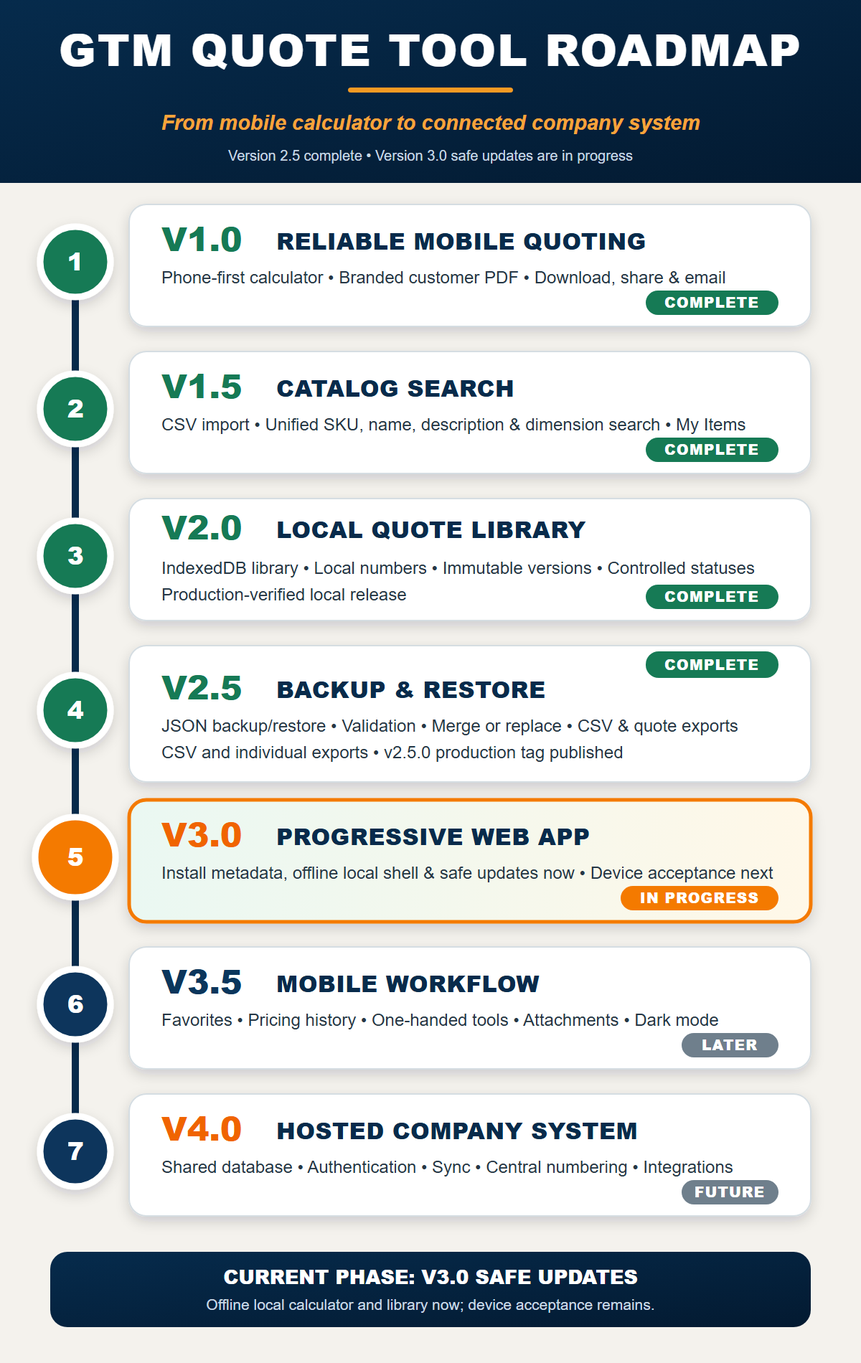
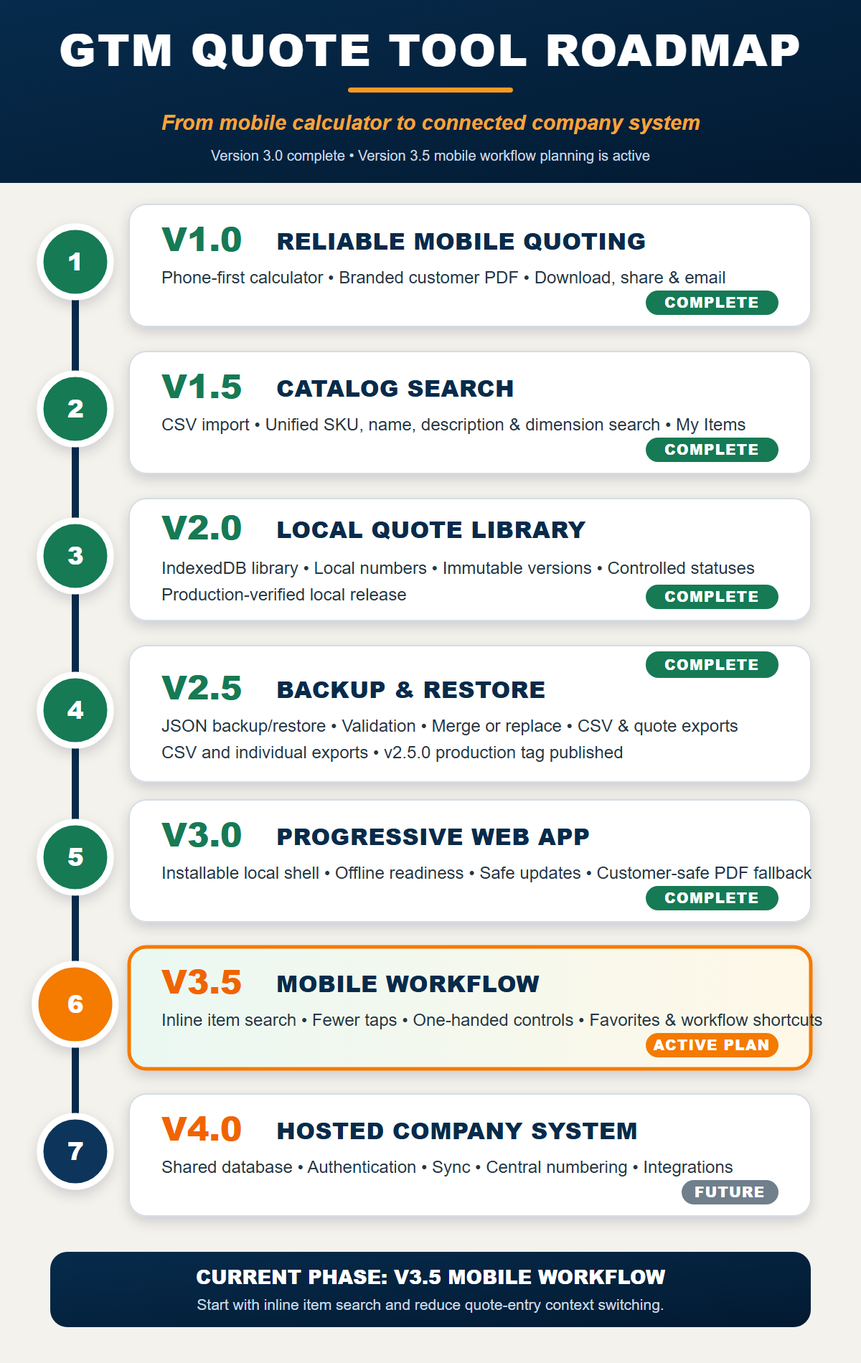
Close Version 3 release

Changed region(s): [[0.0308, 0.5589, 0.9558, 0.8074], [0.2158, 0.9316, 0.7708, 0.9626], [0.2467, 0.0932, 0.74, 0.1242]]

diff --git a/tests/release-metadata.test.js b/tests/release-metadata.test.js
@@ -6,27 +6,28 @@ function read(path) {
   return readFileSync(new URL(`../${path}`, import.meta.url), 'utf8');
 }
 
-const buildLabel = `v3.0.0 ${String.fromCharCode(0x00b7)} hidden-controls.6`;
+const buildLabel = `v3.0.0 ${String.fromCharCode(0x00b7)} stable`;
 
-describe('Version 3 development metadata', () => {
-  it('keeps the Version 3 hidden-controls marker and package version aligned', () => {
+describe('Version 3 stable-release metadata', () => {
+  it('keeps the Version 3 stable marker and package version aligned', () => {
     const packageMetadata = JSON.parse(read('package.json'));
     expect(APP_BUILD_LABEL).toBe(buildLabel);
-    expect(packageMetadata.version).toBe('3.0.0-alpha.6');
+    expect(packageMetadata.version).toBe('3.0.0');
     expect(APP_RELEASE_VERSION).toBe(packageMetadata.version);
   });
 
-  it('keeps the completed Version 2.5 and active Version 3 status consistent', () => {
+  it('keeps completed Version 3 and active Version 3.5 status consistent', () => {
     expect(read('README.md')).toContain('Version 2 is complete');
     expect(read('README.md')).toContain('Version 2.5 backup and restore is complete');
     expect(read('docs/CURRENT_STATE.md')).toContain(buildLabel);
     expect(read('docs/PRODUCT_ROADMAP.md')).toContain('Version 2.0 is complete');
     expect(read('docs/PRODUCT_ROADMAP.md')).toContain('Status (2026-08-06): Complete.');
-    expect(read('docs/PRODUCT_ROADMAP.md')).toContain('Status (2026-09-08): In progress.');
+    expect(read('docs/PRODUCT_ROADMAP.md')).toContain('Status (2026-09-08): Complete after owner acceptance; stable tag pending post-merge deployment verification.');
     expect(read('docs/V2_IMPLEMENTATION_PLAN.md')).toContain('Status: complete.');
     expect(read('docs/V25_IMPLEMENTATION_PLAN.md')).toContain('Status: complete after owner acceptance');
     expect(read('build-docs/OPEN_ITEMS.md')).toContain('Version 2.5 backup and restore');
-    expect(read('docs/assets/gtm-quote-tool-roadmap.svg')).toContain('CURRENT PHASE: V3.0 SAFE UPDATES');
-    expect(read('docs/assets/gtm-quote-tool-roadmap.svg')).toContain('IN PROGRESS');
+    expect(read('docs/PRODUCT_ROADMAP.md')).toContain('Status (2026-09-08): Active planning.');
+    expect(read('docs/assets/gtm-quote-tool-roadmap.svg')).toContain('CURRENT PHASE: V3.5 MOBILE WORKFLOW');
+    expect(read('docs/assets/gtm-quote-tool-roadmap.svg')).toContain('ACTIVE PLAN');
   });
 });

diff --git a/tests/compat/application.spec.js b/tests/compat/application.spec.js
@@ -1,7 +1,7 @@
 import { expect, test } from '@playwright/test';
 import AxeBuilder from '@axe-core/playwright';
 
-const appBuildLabel = `v3.0.0 ${String.fromCharCode(0x00b7)} hidden-controls.6`;
+const appBuildLabel = `v3.0.0 ${String.fromCharCode(0x00b7)} stable`;
 
 test('loads, exposes accessible controls, and preserves approved defaults', async ({ page }) => {
   await page.goto('./');

diff --git a/js/app-meta.js b/js/app-meta.js
@@ -1,4 +1,4 @@
 export const APP_VERSION = 'v3.0.0';
-export const APP_SUBVERSION = 'hidden-controls.6';
-export const APP_RELEASE_VERSION = '3.0.0-alpha.6';
+export const APP_SUBVERSION = 'stable';
+export const APP_RELEASE_VERSION = '3.0.0';
 export const APP_BUILD_LABEL = `${APP_VERSION} \u00b7 ${APP_SUBVERSION}`;

diff --git a/docs/V3_RELEASE_CHECKLIST.md b/docs/V3_RELEASE_CHECKLIST.md
@@ -1,11 +1,11 @@
 # Version 3.0 Release Closeout Checklist
 
-Status: in progress. Version 3 remains a local-only PWA release candidate. Do not create or move the annotated `v3.0.0` tag until every unchecked physical acceptance item is recorded and the owner approves closeout.
+Status: owner acceptance complete. Version 3 remains a local-only PWA release. Create the annotated `v3.0.0` tag only after this closeout documentation is merged, the resulting Pages deployment is verified, and the tag targets that exact production commit.
 
 ## Release candidate identity
 
-- Candidate implementation PR: pending `feature/v3-hidden-control-ci-fix`, following merged PR #38 (`745f66a`).
-- Candidate marker/package: `v3.0.0 · hidden-controls.6` / `3.0.0-alpha.6`.
+- Closeout baseline: PR #39 merged to `main` as `0f15230` on 2026-09-08.
+- Stable marker/package: `v3.0.0 · stable` / `3.0.0`.
 - GitHub Pages base path: `/gtm-calc/`.
 - Production URL: <https://sactowilly.github.io/gtm-calc/>.
 - PWA boundary: the worker caches only public application files. It never reads, writes, migrates, or caches `gtm_quote_calculator_v1`, IndexedDB, quote/customer/catalog records, PDFs, backups, mailto URLs, or generated output.
@@ -17,57 +17,41 @@ Status: in progress. Version 3 remains a local-only PWA release candidate. Do no
 - [x] GitHub Pages deployment for that merge passed: run `31765659119`.
 - [x] Live source smoke confirmed the `safe-update.4` marker module, visible update-notice markup, cache-v3 worker source, and explicit `SKIP_WAITING` handler.
 - [x] PR #38 merged to `main` as `745f66a`; it supplies the direct **Open PDF** fallback but its PR check exposed a visual-hidden regression in the quote-library pagination control.
-- [ ] Confirm the `hidden-controls.6` CI-fix PR's CI, GitHub Pages source smoke, and Android **Open PDF** retest before recording this as the current release-candidate evidence.
+- [x] PR #39 GitHub Actions `test-and-build` passed: run `34266091373`.
+- [x] PR #39 merged to `main` as `0f15230`; GitHub Pages deployment passed: run `34268352795`.
+- [x] Live source smoke returned the deployed `hidden-controls.6` metadata module over HTTPS on 2026-09-08.
 - [x] Local hidden-control evidence: syntax/PWA syntax checks, 174 unit tests, 10 quote-library scale checks across Chromium/Firefox/WebKit/Android Chrome/iPhone Safari emulation, the complete 225-test compatibility matrix, direct-source smoke (2/2), production smoke (2/2), and the Vite build all passed on 2026-09-08.
 - [x] Earlier local implementation evidence: all 16 customer-PDF visual checks passed; the current branch preserves that output code.
-- [ ] GitHub Actions must reproduce a clean full compatibility-matrix run for `hidden-controls.6`; the passed local 225-test run is supporting evidence, not the release-pass gate.
+- [x] GitHub Actions reproduced a clean full compatibility-matrix run for `hidden-controls.6` in run `34266091373`.
 
 ## Physical acceptance required from owner
 
 Use synthetic customer data and download a complete local backup before testing. Do not use **Clear site data**; that can erase browser-local quotes, customers, catalog data, and settings.
 
-### Android Chrome
+### Recorded owner-device scope
 
-- [ ] Open an installed/previously used copy while online. If a waiting update notice appears, confirm it says to save work before reloading.
-- [ ] Enter a distinctive unsaved customer or item-form value; choose **Reload update**; decline confirmation; verify the value remains and the update stays available.
-- [ ] Save the value; choose **Reload update**; verify the app reloads once to `v3.0.0 · hidden-controls.6` and the saved quote/library/catalog data is unchanged.
-- [ ] Launch the installed app again, then turn on airplane mode and reopen it. Verify the offline message, calculator, catalog search, saved draft reopen, and local draft save work.
-- [ ] Reconnect and verify PDF preview, direct **Open PDF**, download, Share Sheet behavior when supported, and email fallback remain recoverable. Verify customer PDF/copy/email contain no cost, freight cost, GTM, internal notes, or source/vendor data.
-- [ ] Check portrait and landscape: no clipped update notice, bottom navigation, sticky actions, or keyboard-covered essential control.
-
-### iPhone Safari
-
-- [ ] Install/open using Safari's **Add to Home Screen** path and repeat the waiting-update, unsaved-edit, save-and-reload, offline reopen, catalog, draft, and PDF/download checks above.
-- [ ] Verify the update controls remain reachable with Dynamic Type/large text and VoiceOver labels announce the notice and its buttons clearly.
-- [ ] Verify the installed app does not lose saved local data when it reloads after an update.
-
-### Laptop Chromium
-
-- [ ] Test a normal tab: update notice, unsaved-confirm cancel, saved reload, direct `/gtm-calc/` reload, and offline reopen after one online launch.
-- [ ] While preparing a backup restore, attempt **Reload update** and verify activation is blocked until the restore activity finishes or is cancelled. Do not perform a destructive restore solely for this test; inspection is sufficient to verify the busy state.
-- [ ] Verify keyboard-only operation, visible focus, 200% zoom, browser console free of application errors, and no horizontal overflow.
-- [ ] Verify existing `gtm_quote_calculator_v1`, IndexedDB draft/customer/version data, quote numbers, immutable versions, and customer-safe output remain unchanged before and after cache migration.
+- [x] Android Chrome — Samsung Galaxy S24 Ultra: owner confirmed the deployed app loads and the direct **Open PDF** fallback, download, email, and quote output work. The Android embedded viewer's own Open control remains unreliable, which is the reason the app-owned fallback exists; it is not treated as an application failure.
+- [x] Laptop Chromium — Dell desktop/Chrome: owner previously confirmed normal quote operation, PDF/download/email behavior, and Chromium desktop usability.
+- [x] iPhone Safari — explicitly deferred by owner. This is a release-scope decision, not a claim that Safari was physically tested. A future iPhone deployment, navigation, Dynamic Type, VoiceOver, update, and data-retention check remains recommended before iOS-specific changes.
 
 ## Update-test note
 
-The notice appears only when a browser already controls a page with an older worker and has downloaded a newer worker. If a device already shows `hidden-controls.6` and no notice, record the normal/offline/data-retention checks as pass and mark the update-notice test **not available on this device**. Do not ship a throwaway production change merely to force a notice. The next production update must re-run the notice path before its release.
+The notice appears only when a browser already controls a page with an older worker and has downloaded a newer worker. The automated update-coordinator coverage passed; device appearance of a notice was not forced through a throwaway production update. The next production update must re-run the notice path before its release.
 
 ## Owner acceptance record
 
 | Device/browser | Date | Result | Evidence | Owner initials |
 | --- | --- | --- | --- | --- |
-| Android Chrome |  | Pending |  |  |
-| iPhone Safari |  | Pending |  |  |
-| Laptop Chromium |  | Pending |  |  |
+| Android Chrome — Samsung Galaxy S24 Ultra | 2026-09-08 | PASS | Owner-confirmed direct **Open PDF** fallback works; download, email, and quote output work. Embedded viewer Open is known unreliable and bypassed. | Will Z. |
+| iPhone Safari | 2026-09-08 | DEFERRED | Owner explicitly does not plan to test iPhone in this release; no Safari pass is claimed. | Will Z. |
+| Laptop Chromium — Dell desktop/Chrome | 2026-08-14 | PASS | Owner-confirmed normal Chrome desktop quote/PDF/download/email behavior. | Will Z. |
 
 ## Release actions after acceptance
 
-1. Record the exact device/browser/date/results above and resolve the compatibility-matrix evidence.
-2. Update `README.md`, `docs/CURRENT_STATE.md`, `docs/PRODUCT_ROADMAP.md`, `docs/V3_IMPLEMENTATION_PLAN.md`, `docs/TEST_PLAN.md`, `BUILD-LOG.md`, `build-docs/DECISIONS.md`, and `build-docs/OPEN_ITEMS.md` to mark Version 3 complete and Version 3.5 active.
-3. Update and visually inspect the roadmap SVG/PNG.
-4. Merge the acceptance documentation change to `main`.
-5. Verify the post-merge Pages deployment and live marker.
-6. Create and push annotated tag `v3.0.0` at that verified production commit. Do not move the tag afterward.
+1. Merge the acceptance/closeout documentation change to `main`.
+2. Verify the post-merge Pages deployment and live stable marker.
+3. Create and push annotated tag `v3.0.0` at that verified production commit. Do not move the tag afterward.
+4. Begin Version 3.5 with the inline Quote-workspace item-search slice.
 
 ## Rollback
 

diff --git a/README.md b/README.md
@@ -10,7 +10,7 @@ GitHub Pages URL: https://sactowilly.github.io/gtm-calc/
 
 ## Current Release Track
 
-Version 1 is the accepted mobile quote foundation. Version 1.5 catalog search is complete. Version 2 is complete: its IndexedDB-backed quote/customer library and lifecycle controls passed automated and owner device acceptance while retaining the original browser save as a fallback. Version 2.5 backup and restore is complete and tagged `v2.5.0` at verified production commit `7ab4d2e`. Version 3.0 is in progress with marker `v3.0.0 · hidden-controls.6`: after one successful online launch, the public application shell can reopen offline while the calculator, catalog, and saved browser data continue to use their existing local stores. A waiting update is applied only after the user chooses Reload update; unsaved quote edits require confirmation and an active backup restore blocks reload. The PDF dialog also provides a direct Open PDF link when an embedded phone viewer cannot open its own control.
+Version 1 is the accepted mobile quote foundation. Version 1.5 catalog search is complete. Version 2 is complete: its IndexedDB-backed quote/customer library and lifecycle controls passed automated and owner device acceptance while retaining the original browser save as a fallback. Version 2.5 backup and restore is complete and tagged `v2.5.0` at verified production commit `7ab4d2e`. Version 3.0 is accepted for stable release with marker `v3.0.0 · stable`: after one successful online launch, the public application shell can reopen offline while the calculator, catalog, and saved browser data continue to use their existing local stores. A waiting update is applied only after the user chooses Reload update; unsaved quote edits require confirmation and an active backup restore blocks reload. The PDF dialog provides a direct Open PDF link when an embedded phone viewer cannot open its own control. Version 3.5 mobile-workflow planning is now active, beginning with inline item search in the Quote workspace.
 
 The release smoke checks remain:
 
@@ -62,7 +62,8 @@ All costs, prices, freight, totals, and GTM dollar values are USD.
 - **Version 1.5 - Catalog Search (complete):** CSV import/reporting, normalized unified search, local catalog storage/rollback, manual items, and recent items are merged and owner-tested.
 - **Version 2.0 - Local Quote Library (complete):** IndexedDB-backed searchable drafts, customer recall, phone-scale results, highlighted duplicates, local quote numbers, immutable version history, revisions, controlled statuses, and separate Quote/Library/Clients/Catalog workspaces are accepted. Version 2.5 adds the fifth Export destination.
 - **Version 2.5 - Backup and Restore (complete):** the complete JSON/checksum foundation, validated local backup download, restore inspection, explicit Merge/Replace transaction, RFC 4180/formula-safe CSV reports, and individual quote JSON/customer-safe PDF downloads passed physical acceptance, owner approval, and post-merge Pages verification. Annotated tag `v2.5.0` identifies verified production commit `7ab4d2e`.
-- **Version 3.0 - Progressive Web App (in progress):** install metadata, the public shell cache, offline calculator/library readiness, and deliberate safe-update activation are implemented; physical production-device acceptance remains the final release gate. See [docs/V3_IMPLEMENTATION_PLAN.md](docs/V3_IMPLEMENTATION_PLAN.md) and [installation guidance](docs/INSTALLATION.md).
+- **Version 3.0 - Progressive Web App (accepted stable release):** install metadata, public-shell caching, offline calculator/library readiness, deliberate safe-update activation, and the Android PDF-open fallback are complete. See [docs/V3_RELEASE_CHECKLIST.md](docs/V3_RELEASE_CHECKLIST.md) and [installation guidance](docs/INSTALLATION.md).
+- **Version 3.5 - Mobile workflow (active planning):** reduce quote-entry context switching, starting with inline item search in the Quote workspace. See [docs/V35_IMPLEMENTATION_PLAN.md](docs/V35_IMPLEMENTATION_PLAN.md).
 - **Version 3.5 - Mobile Workflow Improvements:** favorites, recent customers, frequent item combinations, pricing history, attachments, one-handed controls, and dark mode.
 - **Version 4.0 - Hosted Company System:** future centralized access with shared storage, authentication, synchronization, central quote numbering, integrations, reporting, and permissions.
 
@@ -100,6 +101,7 @@ npm run test:production
 - `tests/` - calculation, privacy, fixture, and browser layout regression tests
 - `docs/V3_IMPLEMENTATION_PLAN.md` - staged PWA implementation, cache, offline, update, and release gates
 - `docs/V3_RELEASE_CHECKLIST.md` - exact Version 3 device-acceptance, deployment, and stable-tag gate
+- `docs/V35_IMPLEMENTATION_PLAN.md` - staged mobile-workflow plan, beginning with inline item search
 - `manifest.webmanifest`, `sw.js`, `js/pwa/`, `assets/pwa/`, and `docs/INSTALLATION.md` - install metadata, scoped public-shell cache, offline status, branded icons, and phone installation guidance
 - `assets/vision-industrial-packaging-logo.png` - complete logo artwork extracted from the approved quotation reference
 - `vite.config.js` - production build configuration for the GitHub Pages base path

diff --git a/docs/CURRENT_STATE.md b/docs/CURRENT_STATE.md
@@ -26,9 +26,9 @@ The detailed audit below remains as historical evidence for the original baselin
 - PR #17 merged the state-preserving Quote, Library, Customers, and Catalog workspaces. PR #18 merged navigation design hardening and passed GitHub CI plus the subsequent Pages deployment.
 - PR #19 head `22cf299` merged to `main` as `3e41007` after CI run `30130612587` passed. Pages run `30132341911` deployed the release candidate successfully.
 - Version 2 acceptance passed on 2026-07-27: live production phone/laptop/privacy smoke passed; Android Chrome passed on a Samsung Galaxy S24 Ultra; laptop Chromium passed on a Dell desktop in Chrome with the owner's approved substitution for Edge; and rollback/re-entry against accepted Version 1.5 commit `3f1f1a0` preserved the legacy raw value, IndexedDB counts, IDs, finalized hashes, counters, and recovery records before allocating `2026-002`.
-- Version 2 is complete and tagged `v2.0.0` at verified production commit `b61890c`. Version 2.5 is complete and tagged `v2.5.0` at verified production commit `7ab4d2e`. Version 3.0 is in progress with development marker `v3.0.0 · hidden-controls.6` and package version `3.0.0-alpha.6`.
+- Version 2 is complete and tagged `v2.0.0` at verified production commit `b61890c`. Version 2.5 is complete and tagged `v2.5.0` at verified production commit `7ab4d2e`. Version 3.0 is accepted for stable release with marker/package `v3.0.0 · stable` / `3.0.0`; Version 3.5 mobile-workflow planning is active.
 - The Version 2.5 foundation adds a readonly, single-transaction snapshot of all eight `gtm_quote_manager` stores plus scoped capture of the active quote, active/prior catalogs, manual items, catalog usage, and recovery localStorage records. It adds deterministic SHA-256 envelope validation, reference checks, and immutable-version hash verification. PR #24 merged the Export workspace's exact-byte-validated local JSON download, PR #25 merged the pre-read 25 MiB inspection and sanitized no-write conflict preview, and PR #26 merged the revalidated owner-confirmed Merge/Replace transaction with a pre-write safety backup, rollback path, and post-restore validation. The current PR adds RFC 4180/formula-safe quote, customer, and manual-item CSV reports plus individual quote JSON and existing customer-safe PDF downloads from saved quote cards. No raw customer, pricing, or record-ID data is exposed in the export status UI.
-- Physical Version 2.5 backup-download/restore evidence, owner acceptance, post-merge Pages verification, and annotated tag publication are complete. Version 3.0 now adds `manifest.webmanifest`, branded square/maskable icons, installation guidance, a `/gtm-calc/`-scoped worker, a versioned cache of public application-shell files, explicit online/offline status, a non-blocking safe-update notice, and a direct customer-PDF Blob link for browsers whose embedded viewer cannot open a PDF. After one successful online launch, the calculator and existing browser-local quote/library/catalog data reopen offline. A user must explicitly choose Reload update; unsaved quote edits require confirmation and active restore work blocks update activation. The worker never caches or changes PDFs, backups, mailto links, IndexedDB, localStorage, customer records, or quote pricing. Physical device acceptance remains later work; deletion/archive, backend, authentication, synchronization, and hosted access remain deferred.
+- Physical Version 2.5 backup-download/restore evidence, owner acceptance, post-merge Pages verification, and annotated tag publication are complete. Version 3.0 adds `manifest.webmanifest`, branded square/maskable icons, installation guidance, a `/gtm-calc/`-scoped worker, a versioned cache of public application-shell files, explicit online/offline status, a non-blocking safe-update notice, and a direct customer-PDF Blob link for browsers whose embedded viewer cannot open a PDF. After one successful online launch, the calculator and existing browser-local quote/library/catalog data reopen offline. A user must explicitly choose Reload update; unsaved quote edits require confirmation and active restore work blocks update activation. The worker never caches or changes PDFs, backups, mailto links, IndexedDB, localStorage, customer records, or quote pricing. Owner Android Chrome and laptop Chromium acceptance is recorded; iPhone Safari physical testing is explicitly deferred by the owner. Version 3.5 now focuses on reducing quote-entry context switching; backend, authentication, synchronization, and hosted access remain deferred.
 
 The current verification counts are recorded in `BUILD-LOG.md` after each verified branch. The live GitHub Pages site changes only after a feature branch is reviewed and merged to `main`.
 

diff --git a/docs/PRODUCT_ROADMAP.md b/docs/PRODUCT_ROADMAP.md
@@ -173,7 +173,7 @@ Give users a complete, inspectable escape hatch before PWA/offline expectations 
 
 ## Version 3.0 — Progressive Web App
 
-**Status (2026-09-08): In progress.** The V2.5 backup/restore and export boundary is accepted, verified, and tagged `v2.5.0`. Version 3.0 now has a `/gtm-calc/`-scoped manifest, branded install icons, browser metadata, installation guidance, an explicit connectivity indicator, a versioned public application-shell cache, safe update activation, and an explicit direct-PDF opening path. The `pdf-open.5` merge exposed a CI-only hidden-button regression, now corrected by marker `v3.0.0 · hidden-controls.6`: all application buttons that use `hidden` are reliably removed from visual layout, including the quote-library pagination control. After one successful online launch the calculator, catalog, and existing local quote/library data reopen offline. A waiting update is never activated automatically: the user chooses Reload update, confirms if a quote has unsaved edits, and cannot reload during an active restore transaction. The worker never caches or changes customer data, PDFs, backups, mailto URLs, IndexedDB, or localStorage. Physical device acceptance remains the final Version 3 release gate. Later work follows [`docs/V3_IMPLEMENTATION_PLAN.md`](V3_IMPLEMENTATION_PLAN.md) and must not change persisted quote data without migration evidence.
+**Status (2026-09-08): Complete after owner acceptance; stable tag pending post-merge deployment verification.** The V2.5 backup/restore and export boundary is accepted, verified, and tagged `v2.5.0`. Version 3.0 delivers a `/gtm-calc/`-scoped manifest, branded install icons, browser metadata, installation guidance, an explicit connectivity indicator, a versioned public application-shell cache, deliberate safe update activation, and an explicit direct-PDF opening path. The final `hidden-controls.6` release candidate restored correct visual hiding for shared buttons after a CI-only pagination regression; its complete GitHub Actions matrix and Pages deployment passed. After one successful online launch the calculator, catalog, and existing local quote/library data reopen offline. A waiting update is never activated automatically: the user chooses Reload update, confirms if a quote has unsaved edits, and cannot reload during an active restore transaction. Owner Android Chrome and laptop Chromium acceptance passed; iPhone Safari physical testing is explicitly deferred by the owner, not claimed as passed. The worker never caches or changes customer data, PDFs, backups, mailto URLs, IndexedDB, or localStorage. The exact evidence and rollback boundary remain in [`docs/V3_RELEASE_CHECKLIST.md`](V3_RELEASE_CHECKLIST.md).
 
 ### Objective
 
@@ -205,13 +205,16 @@ Make the already-stable local application installable and reliably usable offlin
 
 ## Version 3.5 — Mobile workflow improvements
 
+**Status (2026-09-08): Active planning.** Version 3.5 begins with the concrete phone-first problem the owner reported: the Quote workspace should search and select catalog/My Items directly from the main Item field so reps do not have to leave the active quote and return. The first implementation slice must preserve editable in-progress line-item values, source/cost/privacy boundaries, local-only storage, keyboard/touch accessibility, and existing Catalog workspace behavior. The staged plan is [`docs/V35_IMPLEMENTATION_PLAN.md`](V35_IMPLEMENTATION_PLAN.md).
+
 ### Objective
 
 Optimize frequent rep workflows after real usage data identifies the highest-friction actions.
 
 ### Included
 
-- Candidate features selected only after usage validation: favorites, recent customers, frequent item combinations, customer pricing history, reorder quotes, one-handed controls, drag/swipe reorder, voice-to-text notes, specification attachments, and dark mode.
+- Inline quote-item search and selection with a safe return to the active line item.
+- Candidate follow-on features selected only after usage validation: favorites, recent customers, frequent item combinations, customer pricing history, reorder quotes, one-handed controls, drag/swipe reorder, voice-to-text notes, specification attachments, and dark mode.
 
 ### Explicitly excluded
 

diff --git a/docs/V35_IMPLEMENTATION_PLAN.md b/docs/V35_IMPLEMENTATION_PLAN.md
@@ -1,0 +1,49 @@
+# Version 3.5 Implementation Plan — Mobile Workflow
+
+Status: active planning from the accepted Version 3 PWA boundary. The first delivery focuses on inline item search in the active Quote workspace; it does not alter storage schemas, customer-facing output, or catalog import rules.
+
+## Objective
+
+Reduce phone quote-entry context switching. A rep should be able to type in the Quote workspace Item field, see relevant standard-catalog and My Item matches, choose one, and continue editing that line item without leaving the quote.
+
+## First implementation slice — Inline Item Search
+
+### Scope
+
+- Reuse the existing local catalog/My Items search and ranking logic; do not create a second search index.
+- Show a touch-friendly, keyboard-accessible result list beneath the active Item field after deliberate query input.
+- Search existing approved fields: SKU, full/partial name, description, normalized dimensions, and recent local items.
+- Distinguish standard catalog entries from My Items and retain current selection behavior when a user chooses a result.
+- Preserve dirty manual values until the user explicitly selects a result and confirms any existing overwrite guard.
+- Keep the standalone Catalog workspace, CSV import/reporting, local usage tracking, and `gtm_quote_calculator_v1` compatibility intact.
+
+### Explicit exclusions
+
+- No remote catalog, supplier lookup, inventory/availability, backend, authentication, PWA cache rewrite, saved-search history, favorites, bulk item bundles, or customer-specific pricing history.
+- No automatic replacement of an in-progress line item, silent price/cost overwrite, or customer-facing PDF/email behavior change.
+
+### Likely files
+
+- `index.html` and `css/main.css` for the Item-field result region and phone presentation.
+- `js/main.js` plus existing `js/catalog/catalog-ui.js` and `js/catalog/catalog-search.js` integration seams.
+- Focused Vitest and Playwright coverage under `tests/` and `tests/compat/`.
+- `README.md`, `docs/CURRENT_STATE.md`, `docs/PRODUCT_ROADMAP.md`, `docs/TEST_PLAN.md`, `BUILD-LOG.md`, `build-docs/DECISIONS.md`, and `build-docs/OPEN_ITEMS.md` when the implementation changes the visible release marker or milestone state.
+
+### Acceptance criteria
+
+- A phone user can type, arrow through or tap results, select an item, and continue in the Quote workspace without navigating to Catalog.
+- Exact SKU remains top-ranked; partial name, description, normalized dimension, My Item, and recent-item behavior match the existing catalog rules.
+- A selected result populates the same editable fields as the existing Catalog workflow and preserves confirmation/dirty-input protection.
+- No horizontal overflow at 360 px; results remain reachable above the keyboard with 44 px minimum targets and screen-reader labels.
+- Empty, loading, no-catalog, and no-results states are clear and do not block manual entry.
+- Existing import/search, quote calculations, PDF/customer-privacy, localStorage/IndexedDB, direct-source Pages, production build, and accessibility tests remain green.
+
+## Follow-on sequencing
+
+1. Inline Item Search — the first bounded implementation PR.
+2. Quote-entry flow polish — minimize unnecessary workspace changes; validate sticky actions and one-handed reach.
+3. Candidate workflow improvements — favorites, recent customers, frequent combinations, reorder controls, voice notes, attachments, and dark mode only after a demonstrated need and storage/accessibility review.
+
+## Risks and rollback
+
+The principal risks are accidental overwrite of a manually edited line item, a result list obscured by mobile keyboards, confusing duplicate matches, and an accessibility regression in focus management. Keep the result list UI-only and reuse existing selection operations. A rollback removes the inline result integration while leaving Catalog search, imported catalogs, My Items, stored quotes, and customer output untouched.

diff --git a/docs/TEST_PLAN.md b/docs/TEST_PLAN.md
@@ -293,7 +293,7 @@ Release evidence is recorded against PR #19 head `22cf299` and merge commit `3e4
 
 ## Version 3.0 verification
 
-Implementation status (2026-09-08): the manifest/install-metadata slice verifies manifest JSON, `/gtm-calc/` ID/start/scope, standalone display, theme/background colors, 180/192/512 PNG dimensions, a 512 maskable icon, and source/build asset loading. The cache-policy slice verifies scoped registration, non-fatal unsupported/failed registration, `updateViaCache: 'none'`, and retirement of only application-owned caches. The offline-shell slice verifies that only public HTML/CSS/JS/vendor/logo/icon assets are precached, sensitive output is bypassed, both direct-source Pages and built artifacts reload offline after one online launch, existing local quote data reopens, calculator entry remains usable, and the visible connection status changes offline. The safe-update slice verifies a waiting worker never activates itself; reload requires explicit user action, unsaved quote edits require confirmation, active restore work blocks activation, controller changes reload once, deferred notices are non-destructive, and only stale application-owned caches retire. The PDF-open fallback verifies the direct customer-PDF Blob link is visible only after generation and uses a new-tab link without relying on embedded-viewer controls. The hidden-control regression reuses the 100-draft pagination test across Chromium, Firefox, WebKit, Android Chrome, and iPhone Safari to prove an exhausted `Show 10 more` button is not visible. PDFs, backups, mailto URLs, IndexedDB, and localStorage remain outside the worker cache.
+Implementation status (2026-09-08): Version 3 is complete. The manifest/install-metadata slice verifies manifest JSON, `/gtm-calc/` ID/start/scope, standalone display, theme/background colors, 180/192/512 PNG dimensions, a 512 maskable icon, and source/build asset loading. The cache-policy slice verifies scoped registration, non-fatal unsupported/failed registration, `updateViaCache: 'none'`, and retirement of only application-owned caches. The offline-shell slice verifies that only public HTML/CSS/JS/vendor/logo/icon assets are precached, sensitive output is bypassed, both direct-source Pages and built artifacts reload offline after one online launch, existing local quote data reopens, calculator entry remains usable, and the visible connection status changes offline. The safe-update slice verifies a waiting worker never activates itself; reload requires explicit user action, unsaved quote edits require confirmation, active restore work blocks activation, controller changes reload once, deferred notices are non-destructive, and only stale application-owned caches retire. The PDF-open fallback verifies the direct customer-PDF Blob link is visible only after generation and uses a new-tab link without relying on embedded-viewer controls. The hidden-control regression reuses the 100-draft pagination test across Chromium, Firefox, WebKit, Android Chrome, and iPhone Safari to prove an exhausted `Show 10 more` button is not visible. PR #39 GitHub Actions and the resulting Pages deployment passed; owner Android Chrome/laptop Chromium acceptance is recorded and iPhone Safari is explicitly deferred. PDFs, backups, mailto URLs, IndexedDB, and localStorage remain outside the worker cache.
 
 The remaining staged PWA plan in `docs/V3_IMPLEMENTATION_PLAN.md` requires separate gates for offline catalog search, library draft save/reopen, backup generation/recovery, update activation with unsaved work, cache migration failure, backup/restore preservation, privacy, accessibility, Android Chrome, iPhone Safari, laptop Chromium, direct-source Pages, and production artifacts. No later PWA test is claimed as passed until its implementation PR introduces the corresponding behavior.
 

diff --git a/build-docs/OPEN_ITEMS.md b/build-docs/OPEN_ITEMS.md
@@ -25,4 +25,5 @@
 | Version 2 stable closeout | complete | PR #20 merged as `b61890c`; CI run `30304252373`, Pages run `30304688708`, live stable smoke, and annotated tag `v2.0.0` are verified. |
 | Version 2.5 backup and restore | complete | PRs #24–#29 delivered the Export workspace, validated backup download, safe inspection, transactional Merge/Replace restore, CSV/individual exports, release closeout, and acceptance documentation. Owner Android Chrome/laptop Chromium acceptance and post-merge Pages verification passed on 2026-08-06. Annotated tag `v2.5.0` identifies production commit `7ab4d2e`. |
 | Version 2.5 physical acceptance | complete | Samsung Galaxy S24 Ultra/Chrome and Dell desktop/Chrome passed backup/restore, safety-backup recovery, rollback, exports, privacy, corrupted-file no-write, immutable-record, accessibility, and keyboard checks on 2026-08-06. |
-| Version 3.0 PWA implementation | in progress | PR #38's `pdf-open.5` slice adds an application-owned direct PDF Blob link because Android Chrome's embedded viewer Open control was unreliable. Its full matrix exposed a visual-hidden regression in quote-library pagination; `hidden-controls.6` corrects that before physical retesting. Next: successful CI, Android retest, iPhone Safari acceptance or an explicit approved deferral, laptop confirmation, and production closeout. |
+| Version 3.0 PWA implementation | complete | PR #39 (`0f15230`) corrected the hidden-control regression; GitHub Actions run `34266091373` and Pages deployment `34268352795` passed. Owner Android Chrome/laptop Chromium acceptance is recorded; iPhone Safari is explicitly deferred. Stable tag publication follows the closeout documentation merge. |
+| Version 3.5 mobile workflow | active planning | First slice: inline catalog/My Items search from the Quote workspace Item field, reducing catalog-page context switching while preserving dirty line-item input, privacy boundaries, and the standalone Catalog workflow. |

diff --git a/docs/V3_IMPLEMENTATION_PLAN.md b/docs/V3_IMPLEMENTATION_PLAN.md
@@ -1,6 +1,6 @@
 # Version 3.0 Implementation Plan — Progressive Web App
 
-Status: in progress from the tagged Version 2.5.0 recovery boundary (`7ab4d2e`). The hidden-control CI-fix slice uses `v3.0.0 · hidden-controls.6` / `3.0.0-alpha.6`: after one successful online launch, it reopens a public application shell offline while preserving the existing local quote, catalog, and customer stores. Waiting updates require an explicit user action.
+Status: owner acceptance and automated/deployment evidence complete; the stable tag is pending this closeout documentation merge and post-merge Pages verification. Version 3.5 mobile-workflow planning is now active.
 
 Version 3 adds installability and offline application behavior only after the Version 2.5 backup/restore and export workflows are stable. The application remains public, static, phone-first, and GitHub Pages-hosted. No backend, authentication, synchronization, push notifications, automatic email, or hosted database is part of this version.
 
@@ -108,4 +108,4 @@ Required evidence:
 
 ## Explicitly deferred
 
-Push notifications, background sync, server data, authentication, shared-device synchronization, automatic email, hosted reporting, permissions, and Version 3.5 workflow enhancements remain out of scope.
+Push notifications, background sync, server data, authentication, shared-device synchronization, automatic email, hosted reporting, and permissions remain out of scope. Version 3.5 workflow enhancements follow [`docs/V35_IMPLEMENTATION_PLAN.md`](V35_IMPLEMENTATION_PLAN.md).

diff --git a/BUILD-LOG.md b/BUILD-LOG.md
@@ -1,5 +1,11 @@
 # Build Log
 
+### 2026-09-08 -- Version 3.0 release closeout (in progress)
+
+- Created `feature/v3-release-closeout` from merged PR #39 commit `0f15230`. PR #39 GitHub Actions run `34266091373` passed the full matrix after fixing the hidden quote-library pagination control, and Pages deployment `34268352795` passed.
+- Recorded owner device evidence: Samsung Galaxy S24 Ultra/Chrome passed the application-owned **Open PDF** fallback, download, email, and quote-output flow; the embedded Android viewer's own Open control remains a browser limitation and is explicitly bypassed. Dell desktop/Chrome was previously accepted for Chromium desktop behavior. iPhone Safari is explicitly deferred by the owner, not claimed as a pass.
+- Updated the stable marker/package to `v3.0.0 · stable` / `3.0.0`. Reviewed, updated, rendered, and visually inspected the roadmap SVG/PNG: Version 3.0 is complete and Version 3.5 Mobile Workflow is active, beginning with inline item search. Stable-tag publication remains pending this documentation merge and post-merge Pages smoke. The unrelated `.codex/` directory remains untracked and untouched.
+
 ### 2026-09-08 -- Version 3.0 hidden-control CI fix (in progress)
 
 - Reconciled merged PR #38 (`745f66a`) and its failed full compatibility run `31846676117`: 214/225 checks passed and all five browser profiles consistently failed only after the library's final pagination click because the hidden **Show 10 more** button remained visibly rendered.
